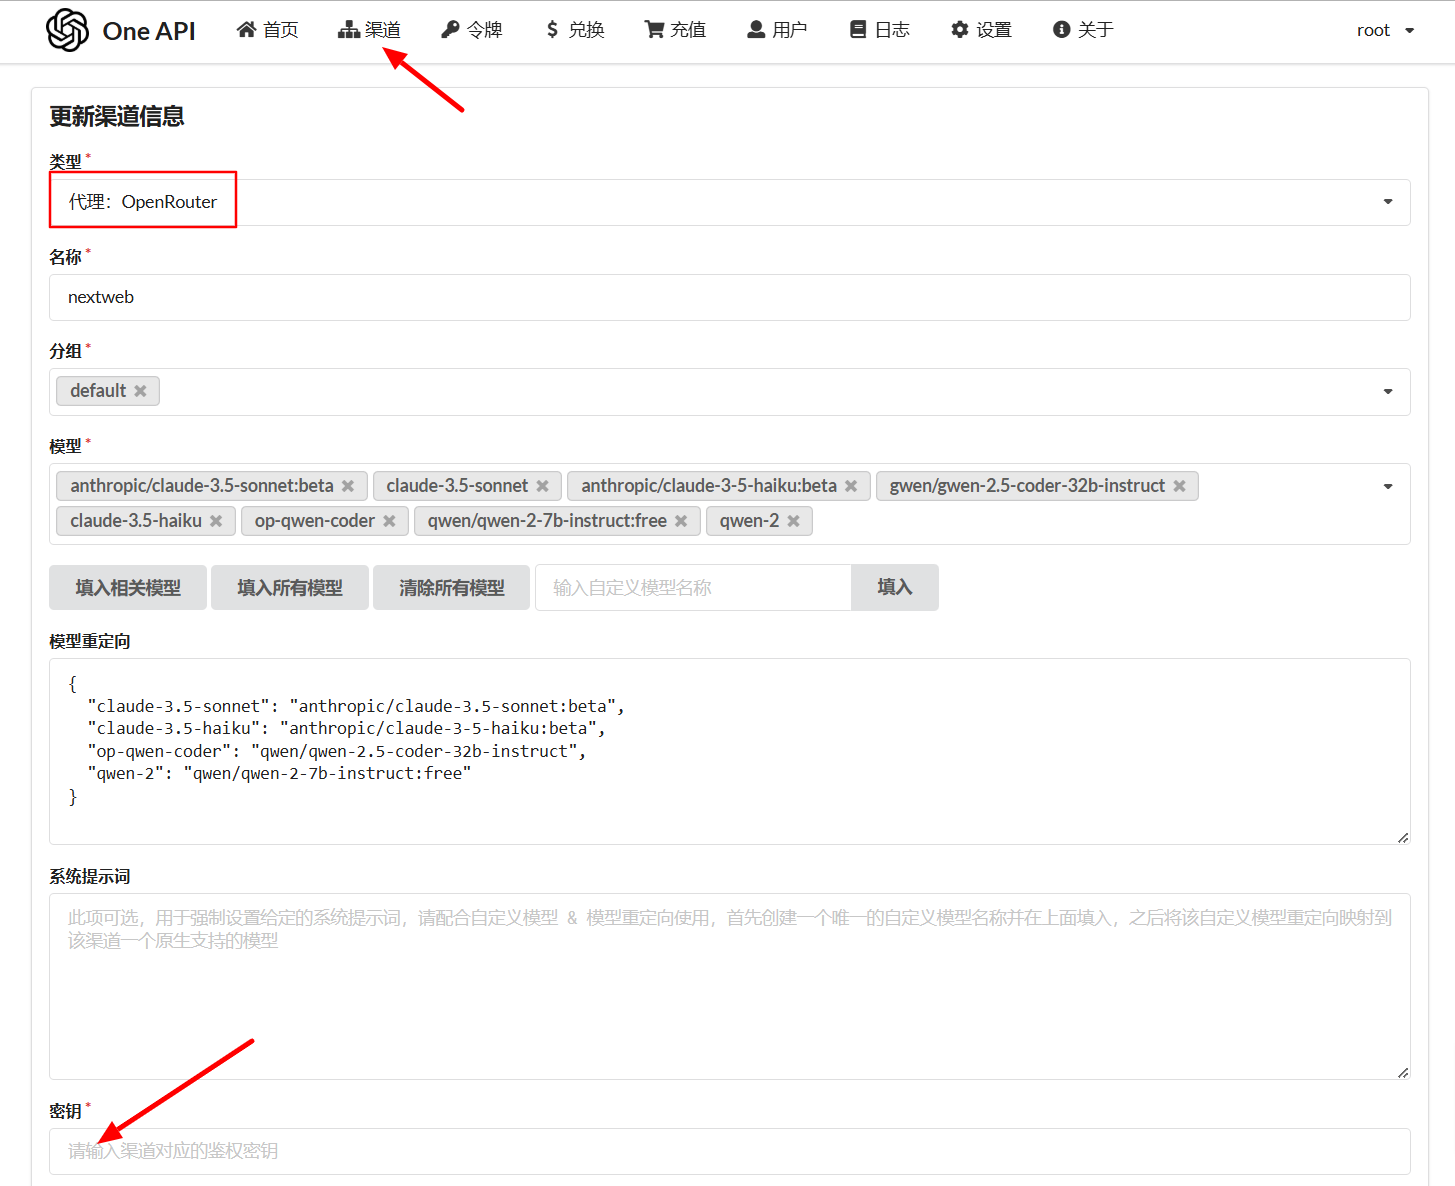
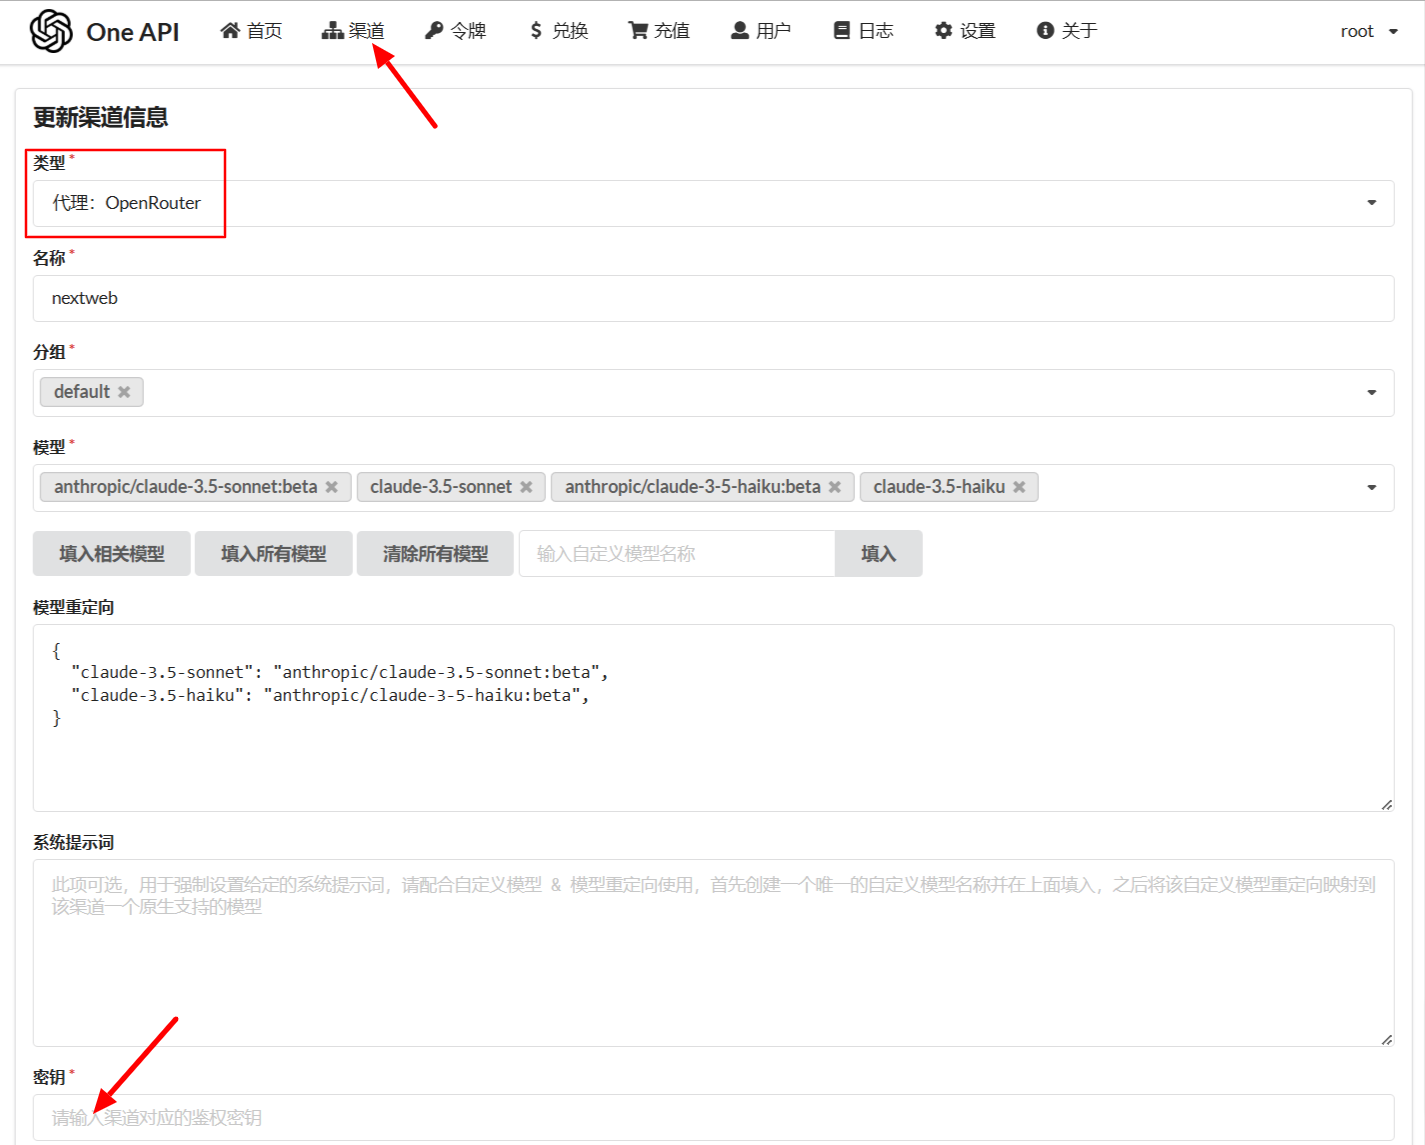
update

diff --git a/source/_posts/one-api-with-next-chat.md b/source/_posts/one-api-with-next-chat.md
@@ -1,14 +1,17 @@
 ---
-title: 【记录】在软路由上部署one-api聚合及使用LLMs
+title: 【记录】在软路由上聚合及使用LLMs
 layout: post
 index_img: /img/2-1.jpg
 date: 2024-11-18 00:17:12
 ---
 ![](/img/2-1.jpg)
-## 部署one-api
-[one-api](https://github.com/songquanpeng/one-api) 是 OpenAI 接口管理 & 分发系统，支持 Azure、Anthropic Claude、Google PaLM 2 & Gemini、智谱 ChatGLM、百度文心一言、讯飞星火认知、阿里通义千问、360 智脑以及腾讯混元，可用于二次分发管理 key。
 
-### 通过Docker部署
+现在最先进的LLMs在访问和付费上都不方便，同时开源的LLMs动辄上百B的参数也使得本地部署几乎不可能，因此通过one-api等工具部署一个可以访问各种LLMs的工具是一个不错的选择。
+
+## 部署one-api
+[one-api](https://github.com/songquanpeng/one-api) 是 OpenAI 接口管理 & 分发系统，支持 Azure、Anthropic Claude、Google PaLM 2 & Gemini、智谱ChatGLM、百度文心一言、讯飞星火认知、阿里通义千问、360智脑以及腾讯混元，可用于二次分发管理key。
+
+建议通过Docker部署
 ```bash
 docker run --name one-api -d --restart always \
     -p 3000:3000 \
@@ -25,17 +28,18 @@ docker run --name one-api -d --restart always \
 [OpenRouter](https://openrouter.ai)为大量LLMs提供了兼容OpenAI的API。在其中创建key之后，回到one-api的界面创建新的渠道，模型重定向可以参考我的设置。之后添加新的令牌，通过令牌即可访问我们在OpenRouter中的大模型。
 
 <div style="display: flex; justify-content: space-between;">
-    <img src="/img/2-2.jpg" alt="Image 1" style="width: 49%;">
-    <img src="/img/2-3.jpg" alt="Image 2" style="width: 49%;">
+    <img src="/img/2-2.png" alt="Image 1" style="width: 49%;">
+    <img src="/img/2-3.png" alt="Image 2" style="width: 49%;">
 </div>
 
+当然，one-api中还可以添加HuggingFace等等地方LLMs的api。
 
 
 
 ## Next-Chat的安装与配置
 - [Next-Chat](https://github.com/ChatGPTNextWeb/ChatGPT-Next-Web)
 
-我们同样使用docker进行部署，
+建议同样使用docker进行部署，
 
 ```bash
 docker run --name chat-next-web -d \
@@ -46,7 +50,7 @@ docker run --name chat-next-web -d \
 
 部署完成后，
 - 在设置里选择`自定义接口`，接口地址填写one-api的地址，`API Key`填写one-api中的令牌，
-- 在自定义模型中注意不能忘记`@`，如`-all,+claude-3.5-sonnet@OpenRouter,+claude-3.5-haiku@OpenRouter,+op-qwen-coder@OpenRouter,+qwen-2@OpenRouter`，
+- 在自定义模型中注意不能忘记`@`，如`-all,+claude-3.5-sonnet@OpenRouter,+claude-3.5-haiku@OpenRouter`，
 - `对话摘要模型`改为便宜的, 否则会默认使用最贵的模型来生成标题。
 
 最后，打开ip:3001就可以愉快地和LLMs对话了。
